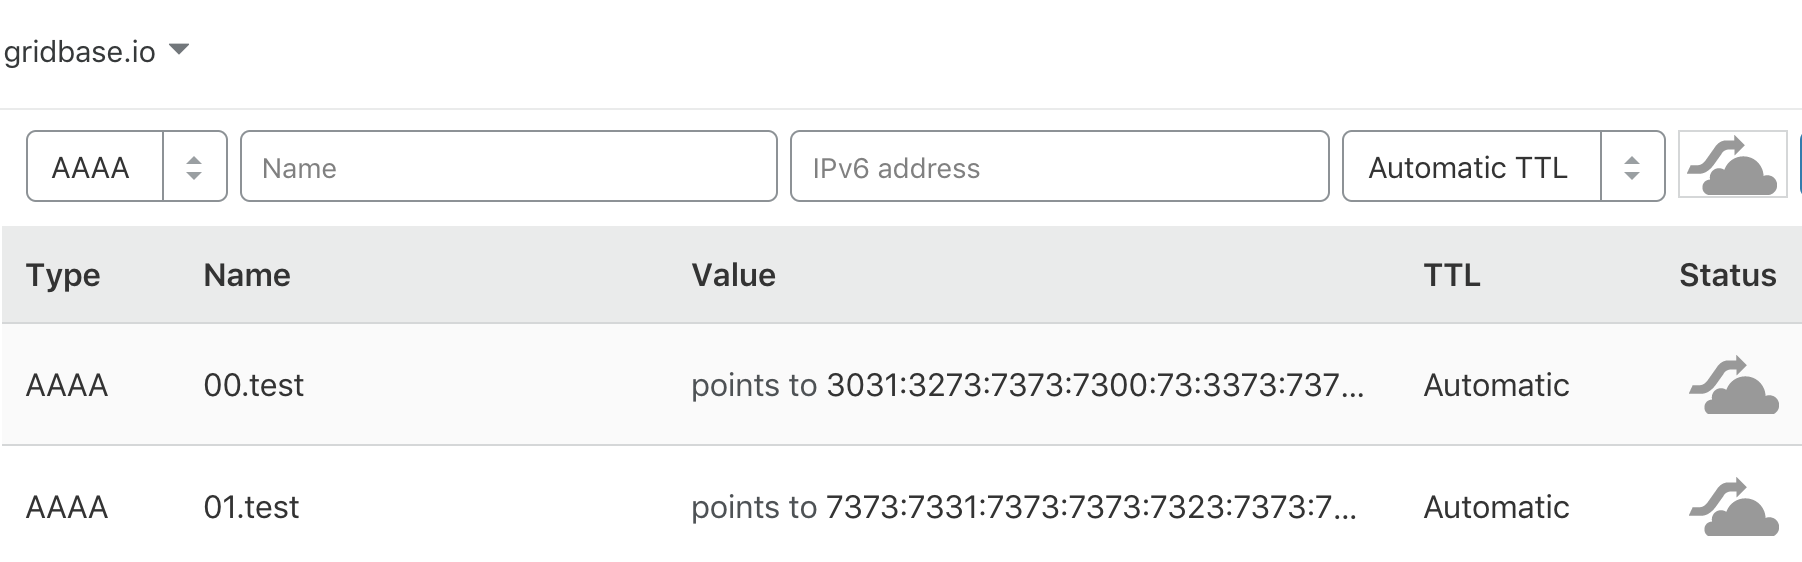
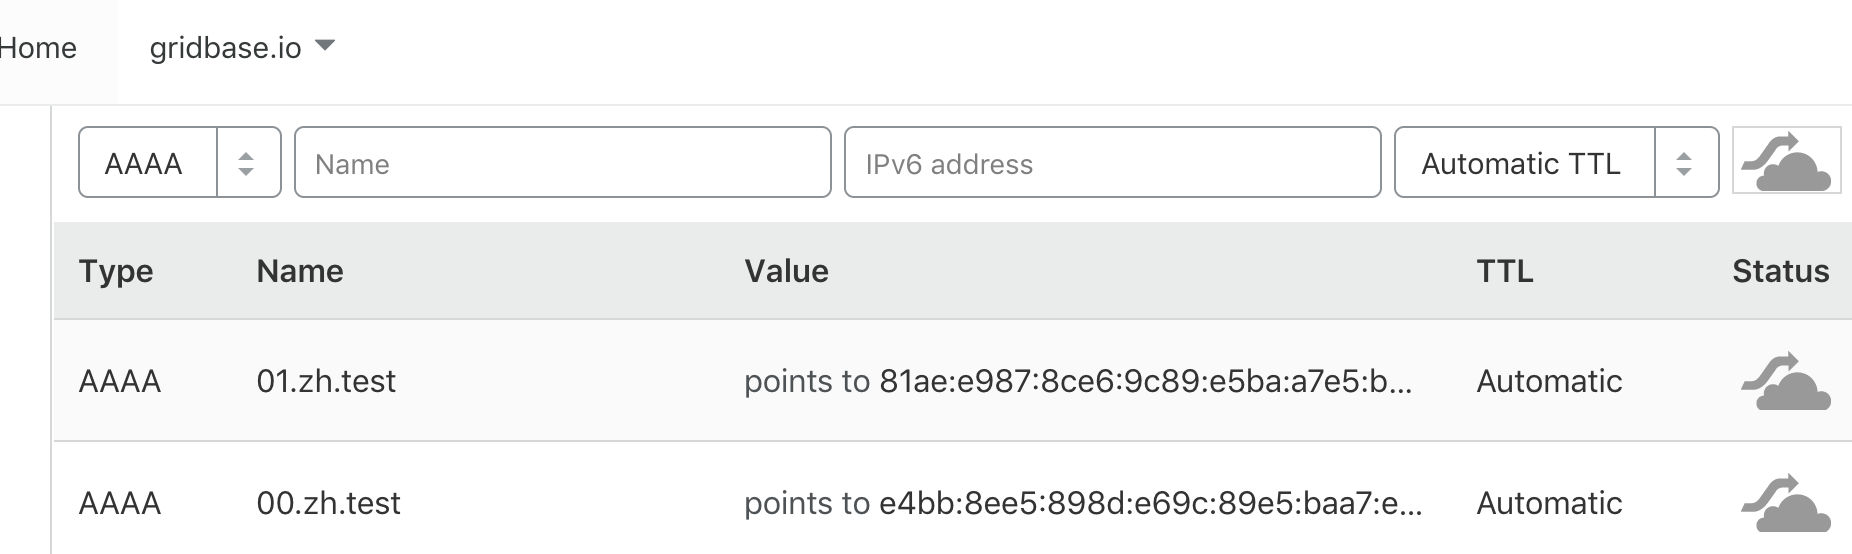
Use i18n example

diff --git a/README.md b/README.md
@@ -26,11 +26,11 @@ go get -u github.com/CovenantSQL/beacon
 
 #### Generate AAAA Records
 ```bash
-$ echo "012ssss\0\0s3ssssssss1sssss#ssssss" | beacon -trim -mode ipv6 -domain test.gridbase.io                 
+$ echo "从前有座山の里有座庙12" | beacon -trim -domain zh.test.gridb.io                 
 Generated IPv6 addr:
 ;; AAAA Records:
-00.test.gridbase.io	1	IN	AAAA	3031:3273:7373:7300:73:3373:7373:7373
-01.test.gridbase.io	1	IN	AAAA	7373:7331:7373:7373:7323:7373:7373:7373
+00.zh.test.gridb.io	1	IN	AAAA	e4bb:8ee5:898d:e69c:89e5:baa7:e5b1:b1e3
+01.zh.test.gridb.io	1	IN	AAAA	81ae:e987:8ce6:9c89:e5ba:a7e5:ba99:3132
 ```
 
 #### Set in your DNS Vendor
@@ -40,15 +40,15 @@ Generated IPv6 addr:
 #### Read from DNS
 Raw:
 ```bash
-$ beacon -mode ipv6 -domain test.gridbase.io
-INFO[0000] #### test.gridbase.io ####                   
-012sssss3ssssssss1sssss#ssssss
-INFO[0000] #### test.gridbase.io ####         
+$ beacon -mode ipv6 -domain zh.test.gridbase.io
+INFO[0000] #### zh.test.gridbase.io ####                   
+从前有座山の里有座庙12
+INFO[0000] #### zh.test.gridbase.io ####         
 ```
 Hex:
 ```bash       
-$ beacon -mode ipv6 -domain test.gridbase.io -hex
-INFO[0000] #### test.gridbase.io ####                   
-3031327373737300007333737373737373737331737373737323737373737373
-INFO[0000] #### test.gridbase.io ####                   
+$ beacon -mode ipv6 -domain zh.test.gridbase.io -hex
+INFO[0000] #### zh.test.gridbase.io ####                   
[1 lines of base64/hex data omitted]
+INFO[0000] #### zh.test.gridbase.io ####                   
 ```
